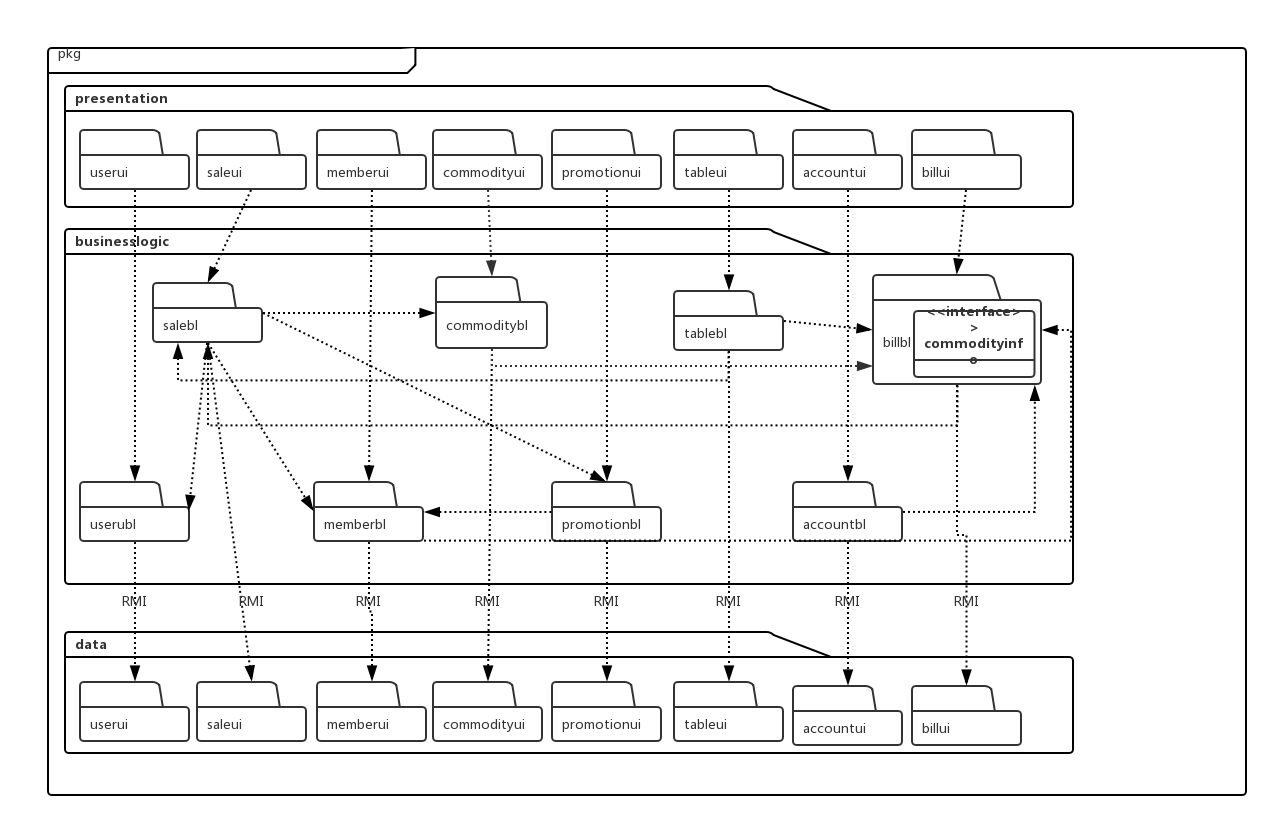
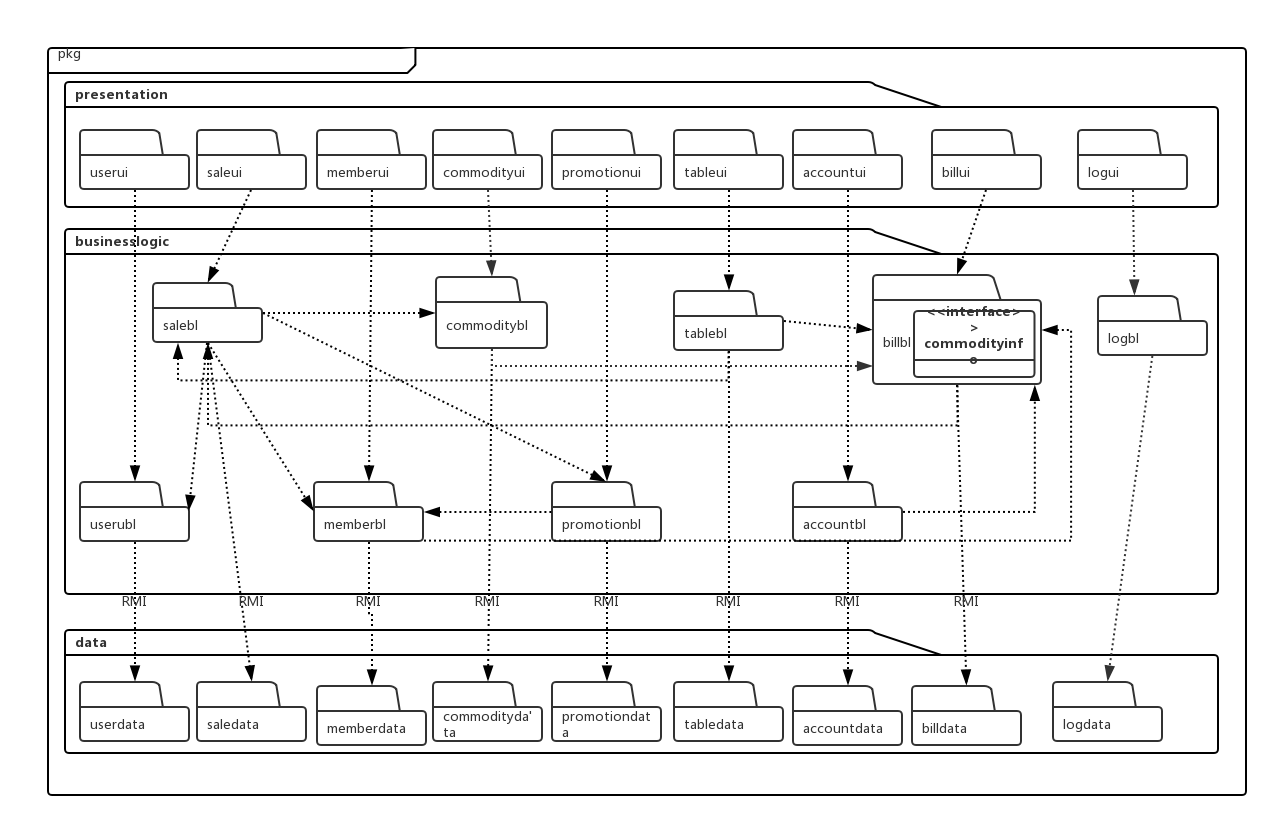
add log

diff --git a/体系结构阶段作业1/进销存系统软件体系结构描述文档.md b/体系结构阶段作业1/进销存系统软件体系结构描述文档.md
@@ -473,11 +473,13 @@ LogUI
 
 #### 5.3.2 业务逻辑层模块的接口规范
 
-#####commoditybl模块的接口规范
-
 业务逻辑层模块的接口规范如表9所示
 
 ##### 表9 业务逻辑层模块的接口规范
+
+
+
+##### commoditybl模块的接口规范
 
 提供的服务（供接口）
 
@@ -605,6 +607,8 @@ Account.getAccountList
 | AccountDataService.update(CommodityPO p) | 更新单一持久化对象            |
 | DatabaseFactory.getCommodityDatabase     | 得到Commodity数据库的服务的引用 |
 
+##### salebl模块的接口规范
+
 Sale.import
 
 | 语法   | public SaleVO import() |
@@ -692,7 +696,7 @@ Promotion.getPromotinoList
 | PromotionDataService.insert(CommodityPO po) | 插入单一持久化对象     |
 | PromotionDataService.delete(CommodityPO p) | 删除单一持久化对象     |
 
-memberbl模块的接口规范
+##### memberbl模块的接口规范
 
 提供的服务（供接口）
 
@@ -738,7 +742,7 @@ Member.updateMember
 
 
 
-tablebl模块的接口规范
+##### tablebl模块的接口规范
 
 提供的服务（供接口）
 
@@ -782,7 +786,7 @@ table.MangeCourse.Red
 
 
 
-userbl模块的接口规范
+##### userbl模块的接口规范
 
 提供的服务（供接口）
 
@@ -826,7 +830,7 @@ User.updateUser
 | UserDataService.getUserDatabase          | 得到User数据库的服务的引用   |
 | UserDataService.insert(UserPO po)        | 在数据库中插入UserPO对象   |
 
-billbl模块的接口规范
+##### billbl模块的接口规范
 
 提供的服务（供接口）
 
@@ -918,6 +922,26 @@ bill.makeDamagebill
 | BillDataService.getUserDatabase     | 得到User数据库的服务的引用     |
 | BillDataService.getBillDatabase     | 得到Bill数据库的服务的引用     |
 | BillDataService.getMemberDatabase   | 得到Member数据库的服务的引用   |
+
+##### logbl模块的接口规范
+
+提供的服务（供接口）
+
+log.addRecord
+| 语法   | public void addRecord(LogPO po) |
+| ---- | ------------------------------- |
+| 前置条件 | 用户进行了某项操作                       |
+| 后置条件 | 记录操作的持久化数据对象到数据库                |
+
+需要的服务（需接口）
+
+| 服务名                              | 服务            |
+| -------------------------------- | ------------- |
+| LogDataService.find(int id)      | 根据ID查找单一持久化对象 |
+| LogDataService.insert(UserPO po) | 插入单一持久化对象     |
+| LogDataService.delete(UserPO po) | 删除单一持久化对象     |
+| LogDataService.update(UserPO po) | 更新单一持久化对象     |
+| LogDataService.getLogDatabase    | 得到数据库的服务的引用   |
 
 ### 5.4数据层的分解
 
